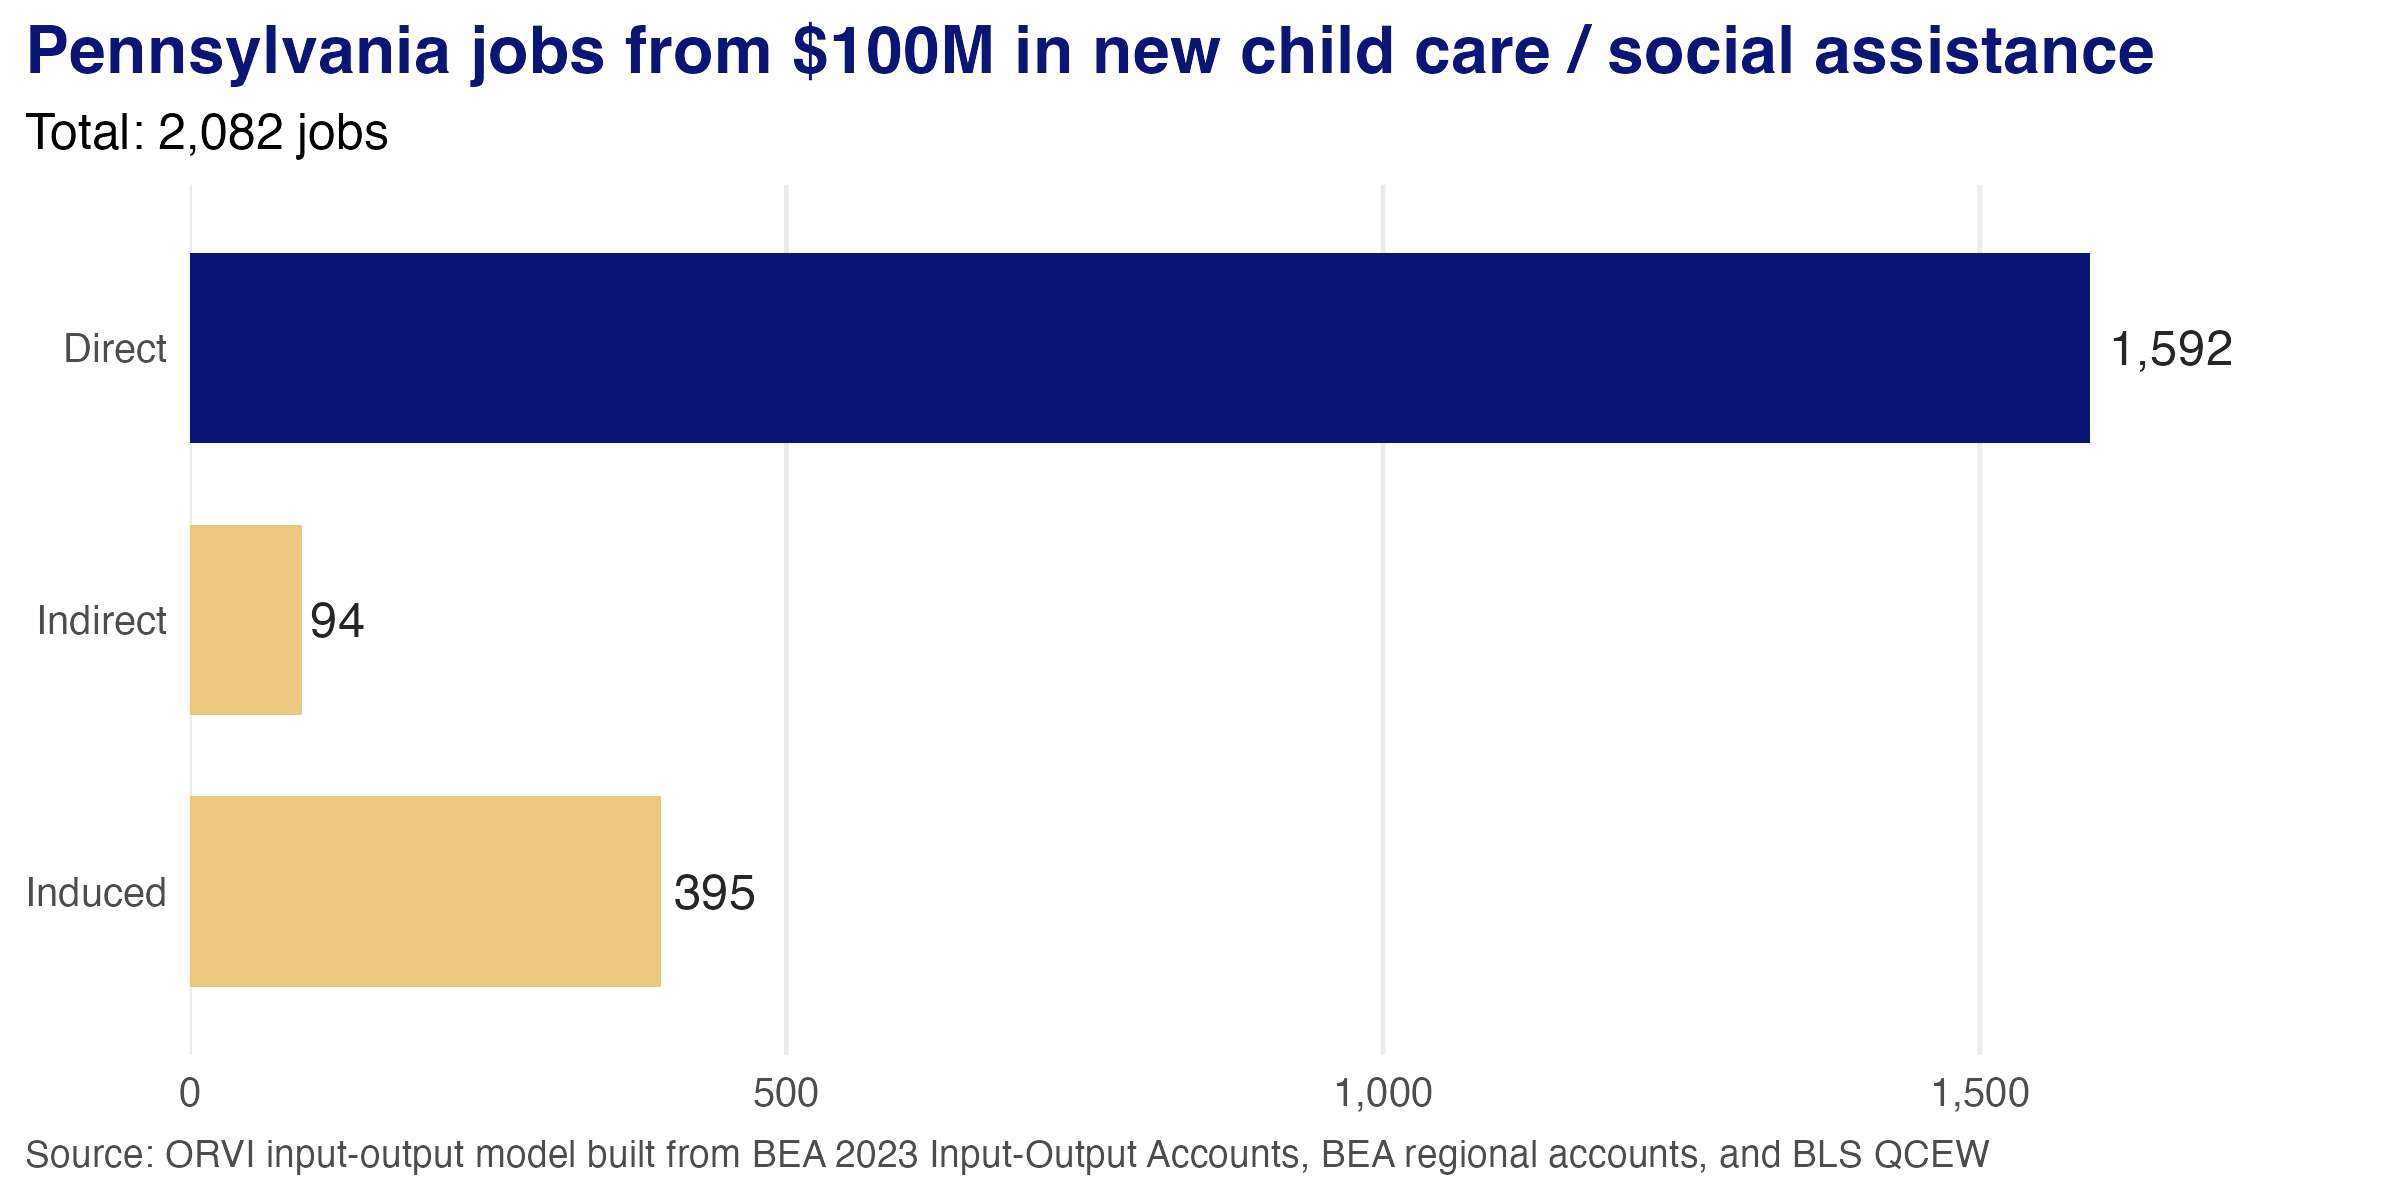
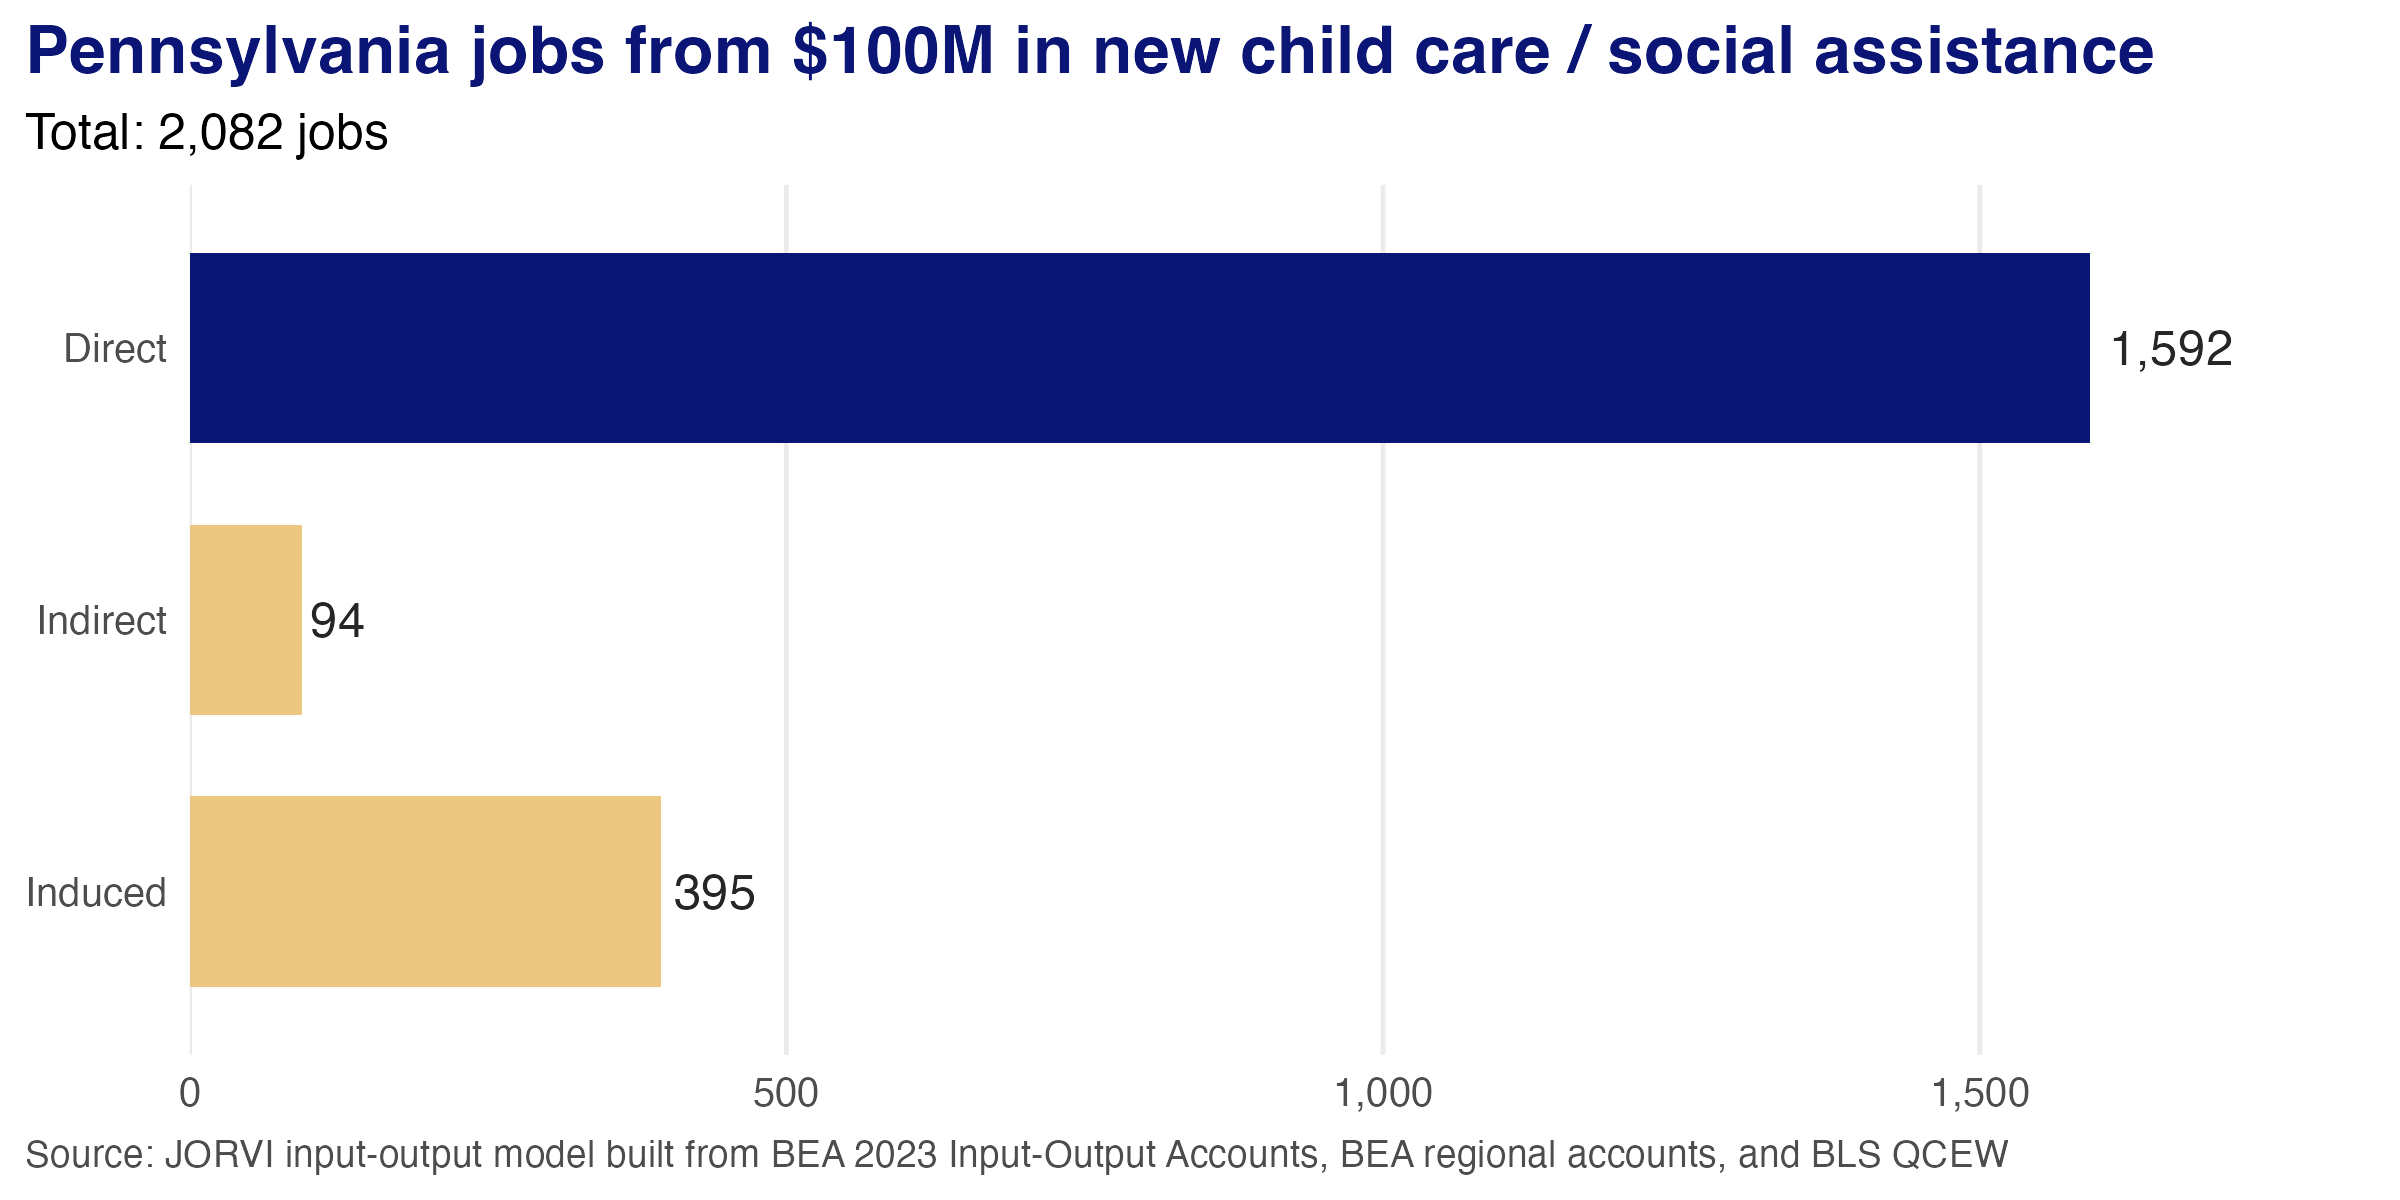
Name the tool JORVI and add direct jobs by spending line
- Brand the calculator as JORVI (Jobs, Output & Regional Value Impacts)
- New results panel splitting direct jobs, and total jobs supported, across
  the industry lines entered in a scenario

Changed region(s): [[0.0625, 0.925, 0.8438, 0.9867]]

diff --git a/docs/index.html b/docs/index.html
@@ -3,8 +3,8 @@
 <head>
 <meta charset="utf-8">
 <meta name="viewport" content="width=device-width, initial-scale=1">
-<title>State Economic Impact Calculator</title>
-<meta name="description" content="Estimate the direct, indirect, and induced jobs, income, and output created by new spending in any industry, in any U.S. state.">
+<title>JORVI Impact Calculator</title>
+<meta name="description" content="JORVI (Jobs, Output &amp; Regional Value Impacts): estimate the direct, indirect, and induced jobs, income, and output created by new spending in any industry, in any U.S. state.">
 <style>
   :root {
     --navy: #0B1575;
@@ -55,7 +55,8 @@
 
   header.hero { padding: 56px 0 28px; }
   .eyebrow { color: var(--muted); font-size: 13px; letter-spacing: .08em; text-transform: uppercase; font-weight: 600; margin: 0 0 10px; }
-  h1 { color: var(--navy); font-size: clamp(30px, 5vw, 44px); line-height: 1.1; margin: 0 0 14px; letter-spacing: -.01em; }
+  h1 { color: var(--navy); font-size: clamp(36px, 6vw, 52px); line-height: 1.05; margin: 0 0 6px; letter-spacing: -.01em; }
+  .tagline { font-size: clamp(18px, 2.6vw, 22px); font-weight: 600; margin: 0 0 16px; }
   .lede { font-size: 18px; color: var(--muted); max-width: 680px; margin: 0; }
   .lede strong { color: var(--text); font-weight: 600; }
 
@@ -150,6 +151,7 @@
     .card { padding: 18px; }
     .kpi .v { font-size: 24px; }
     th, td { padding: 8px 5px; font-size: 13px; }
+    #by-line .opt, #by-line .mini { display: none; }
     th { font-size: 11px; letter-spacing: 0; }
   }
   @media (max-width: 420px) {
@@ -166,8 +168,9 @@
 <div class="wrap">
 
 <header class="hero">
-  <p class="eyebrow">Input-output model &middot; all 50 states + DC</p>
-  <h1>State Economic Impact Calculator</h1>
+  <p class="eyebrow">State economic impact calculator &middot; all 50 states + DC</p>
+  <h1>JORVI</h1>
+  <p class="tagline">Jobs, Output &amp; Regional Value Impacts</p>
   <p class="lede">Estimate how new spending in one industry ripples through a state's economy. You get <strong>direct</strong> jobs in that industry, <strong>indirect</strong> jobs at its in-state suppliers, and <strong>induced</strong> jobs supported when workers spend their paychecks.</p>
 </header>
 
@@ -243,6 +246,12 @@
     </div>
   </div>
 
+  <div class="card" id="by-line-card" style="margin-top:16px" hidden>
+    <h2>Direct jobs by spending line</h2>
+    <p class="sub" id="by-line-sub"></p>
+    <div class="table-scroll"><table id="by-line"></table></div>
+  </div>
+
   <div class="card" style="margin-top:16px">
     <h2>Industries gaining indirect &amp; induced jobs</h2>
     <p class="sub" id="industry-sub">The top 15 industries by spillover jobs. Direct jobs are excluded.</p>
@@ -287,7 +296,7 @@
 </main>
 
 <footer>
-  Built from public BEA and BLS data (<span class="yr"></span> accounts). All results are model estimates.
+  JORVI (Jobs, Output &amp; Regional Value Impacts) is built from public BEA, BLS, and Census data (<span class="yr"></span> accounts). All results are model estimates.
 </footer>
 </div>
 
@@ -384,12 +393,22 @@
     const n = meta.industries.length;
     const idx = Object.fromEntries(meta.industries.map((d, i) => [d.code, i]));
     const y = new Array(n).fill(0);
-    for (const l of lines) {
+    const spends = lines.map(l => {
       const i = idx[l.code];
       const spend = mode === "jobs" ? (jobsCoef[i] > 0 ? l.amount / jobsCoef[i] : 0)
                                     : l.amount * l.pct / 100;
       y[i] += spend;
-    }
+      return spend;
+    });
+
+    // Each line's direct jobs, and all jobs it supports (direct + indirect +
+    // induced). The model is linear, so the lines add up to the totals.
+    const byLine = lines.map((l, k) => {
+      const i = idx[l.code];
+      const totalPerDollar = L2.reduce((sum, row, r) => sum + row[i] * jobsCoef[r], 0);
+      return { name: meta.industries[i].name, amount: l.amount, pct: l.pct, spend: spends[k],
+               direct: spends[k] * jobsCoef[i], total: spends[k] * totalPerDollar };
+    });
     const x1 = matVec(model.L1, y), x2 = matVec(L2, y);
     const rows = meta.industries.map((d, i) => {
       const out = { Direct: y[i], Indirect: x1[i] - y[i], Induced: x2[i] - x1[i] };
@@ -407,7 +426,7 @@
     rows.forEach(r => EFFECTS.forEach(e => Object.keys(METRICS).forEach(k => {
       summary[e][k] += r[e][k]; summary.Total[k] += r[e][k];
     })));
-    return { rows, summary };
+    return { rows, summary, byLine };
   }
 
   // ---- Run -----------------------------------------------------------------
@@ -491,6 +510,8 @@
         `<td>${fmtM(s[e].labor)}</td><td>${fmtM(s[e].va)}</td><td>${fmtM(s[e].output)}</td></tr>`).join("") +
       `</tbody>`;
 
+    renderByLine();
+
     $("#industry-sub").textContent = `The top 15 industries by spillover ${multiYear ? "jobs per year" : "jobs"}. Direct jobs are excluded.`;
     const spill = rows.map(r => ({ name: r.name, ind: r.Indirect.jobs / years, inu: r.Induced.jobs / years }))
       .map(r => ({ ...r, tot: r.ind + r.inu }))
@@ -506,6 +527,39 @@
       `Every 100 direct jobs support about ${fmtInt(100 * (t.jobs / s.Direct.jobs - 1))} more in ${stateName}. ` +
       `${last.se ? "Jobs include the self-employed; labor income includes proprietors' income." : "Wage and salary jobs only; labor income is employee compensation."} ` +
       `Model year ${meta.year}; FLQ δ = ${meta.flq_delta}.`;
+  }
+
+  function renderByLine() {
+    const { byLine, years, mode } = last;
+    const card = $("#by-line-card");
+    card.hidden = byLine.length < 2;
+    if (card.hidden) return;
+
+    const multiYear = years !== 1;
+    const per = multiYear ? " per year" : "";
+    $("#by-line-sub").textContent =
+      `Direct jobs${per} created by each line you entered, and all the jobs${per} each line supports ` +
+      `(direct, indirect, and induced)${multiYear ? ` over the ${years}-year build` : ""}.`;
+
+    const directTotal = byLine.reduce((a, l) => a + l.direct, 0);
+    const maxDirect = Math.max(...byLine.map(l => l.direct), 1e-9);
+    const usd = mode !== "jobs";
+    const sum = key => byLine.reduce((a, l) => a + l[key], 0);
+    const share = v => directTotal > 0 ? `${Math.round(100 * v / directTotal)}%` : "–";
+
+    $("#by-line").innerHTML =
+      `<thead><tr><th>Industry</th>` +
+      (usd ? `<th class="opt">Entered</th><th>In-state</th>` : "") +
+      `<th>Direct<span class="opt"> jobs</span>${multiYear ? "/yr" : ""}</th><th class="opt">Share</th>` +
+      `<th>Total<span class="opt"> jobs</span>${multiYear ? "/yr" : ""}</th></tr></thead><tbody>` +
+      byLine.map(l =>
+        `<tr><td class="ind"><span class="mini" style="width:${Math.max(2, 60 * l.direct / maxDirect)}px;background:var(--navy)"></span>${l.name}</td>` +
+        (usd ? `<td class="opt">${fmtM(l.amount)}</td><td>${fmtM(l.spend)}</td>` : "") +
+        `<td>${fmtInt(l.direct / years)}</td><td class="opt">${share(l.direct)}</td><td><strong>${fmtInt(l.total / years)}</strong></td></tr>`
+      ).join("") +
+      `<tr class="total"><td>Total</td>` +
+      (usd ? `<td class="opt">${fmtM(sum("amount"))}</td><td>${fmtM(sum("spend"))}</td>` : "") +
+      `<td>${fmtInt(directTotal / years)}</td><td class="opt">100%</td><td>${fmtInt(sum("total") / years)}</td></tr></tbody>`;
   }
 
   function renderBars() {

diff --git a/README.md b/README.md
@@ -1,4 +1,7 @@
-# State input-output model
+# JORVI: Jobs, Output & Regional Value Impacts
+
+A state input-output model and web calculator:
+**https://nick-orvi.github.io/iomodel/**
 
 Estimates the **direct, indirect, and induced** jobs, labor income, value
 added, and output from new spending in any industry, for all 50 states and
